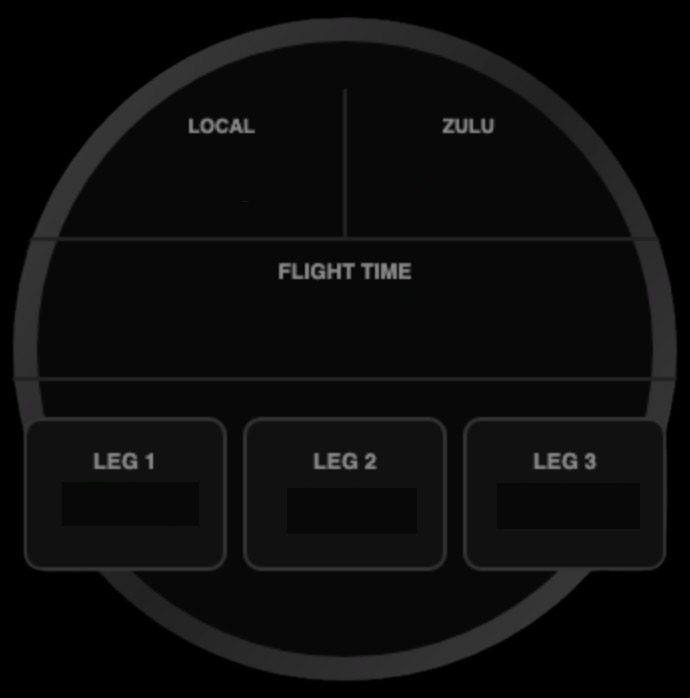
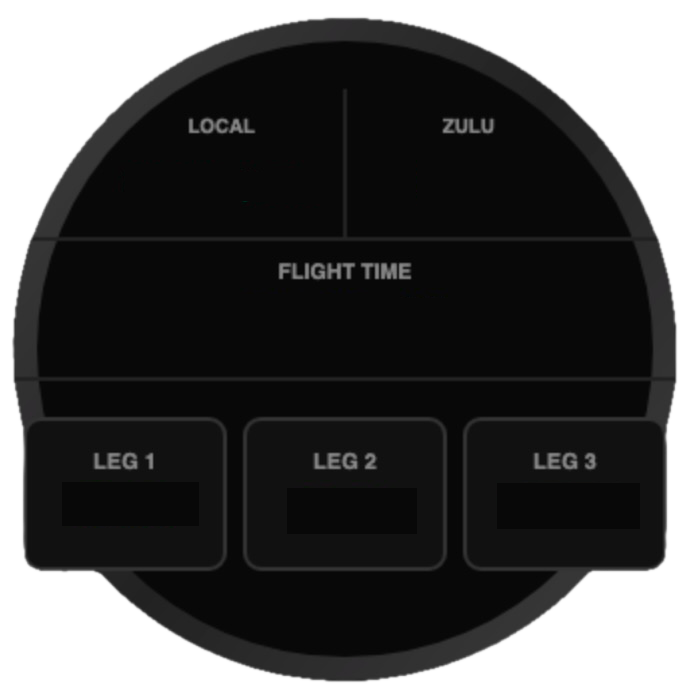
cleanup timer

Changed region(s): [[0.0, 0.0, 1.0, 1.0]]

diff --git a/archive/timerGaugeTypeD.html b/archive/timerGaugeTypeD.html
@@ -1,0 +1,144 @@
+    <!-- Timer Gauge Type D -->
+    <!--
+    <div id="timerContainerDivId"
+	 style="position:relative;
+		width:400px;
+		height:300px;">
+-->
+      <div id="timerContainerDivId"
+	   style="position:relative;
+		  width:100%;
+		  height:auto;
+		  aspect-ratio:1/1;">
+
+    <!-- Background image -->
+    <img id="backPlateTimerID"
+	 src="images/backPlate2.png"
+	 style="
+	  position:absolute;
+	  top:0;
+	  left:0;
+	  width:100%;
+	  height:100%;
+	  z-index: 1;
+	  pointer-events:none;
+	  ">
+    <!-- Background image -->
+    <img id="timeFaceImageId"
+	 src="images/timerFace2.png"
+	 style="
+	  position:absolute;
+	  top:0;
+	  left:0;
+	  width:100%;
+	  height:100%;
+	  z-index: 2;
+	  pointer-events:none;
+	  ">    
+
+    <!-- LOCAL TIME -->
+    <div id="localTime"
+         style="position:absolute;
+		top: 23%;  /* 70px; */
+		left: 19%;/* 58px; */
+		color:#fff;
+		font-size: 16px;
+		z-index: 5;
+		font-weight:bold;">
+      00:00
+    </div>
+
+    <!-- ZULU TIME -->
+    <div id="zuluTime"
+         style="position:absolute;
+		top:23%;  /* 70px; */
+		right:23%;  /* 70px; */
+                color:#fff;
+		font-size:16px;
+		z-index: 5;
+		font-weight:bold;">
+      00:00
+    </div>
+
+    <!-- FLIGHT TIME -->
+    <div id="flightTime"
+         style="position:absolute;
+		top:126px; 
+		left:122px;
+                color:#ff0;
+		font-size:24px;
+		z-index: 5;
+		font-weight:bold;">
+      00:00
+    </div>
+
+    <!-- LEG BUTTONS -->
+    <button id="leg1Btn"
+            style="position:absolute;
+		   bottom:60px;
+		   left:20px;
+                   width:70px;
+		   height:60px;
+		   z-index: 5;
+		   cursor:pointer;
+		   opacity:0;">
+    </button>
+
+    <button id="leg2Btn"
+            style="position:absolute;
+		   bottom:60px;
+		   left:118px;
+                   width:70px;
+		   height:60px;
+		   z-index: 5;
+		   cursor:pointer;
+		   opacity:0;">
+    </button>
+
+    <button id="leg3Btn"
+            style="position:absolute;
+		   bottom:60px;
+		   right:20px;
+                   width:70px;
+		   height:60px;
+		   z-index: 5;
+		   cursor:pointer;
+		   opacity:0;">
+    </button>
+<div id="leg1Display"
+     style="position:absolute;
+	    bottom:70px;
+	    left:30px;
+            color:#f0a;
+	    font-size:20px;
+	    z-index: 6;
+	    pointer-events:none;
+	    font-weight:bold;">
+00:00
+</div>
+
+<div id="leg2Display"
+     style="position:absolute;
+	    bottom:70px;
+	    left:120px;
+            color:#0f0;
+	    font-size:20px;
+	    z-index: 6;
+	    pointer-events:none;
+	    font-weight:bold;">
+00:00
+</div>
+
+<div id="leg3Display"
+     style="position:absolute;
+	    bottom:70px;
+	    right:30px;
+            color:#fa0;
+	    font-size:20px;
+	    z-index: 6;
+	    pointer-events:none;
+	    font-weight:bold;">
+00:00
+</div>
+
+</div>

diff --git a/gauges/timerStyleD.js b/gauges/timerStyleD.js
@@ -38,8 +38,6 @@ let legTimers = {
 
 function toggleLegTimer(leg) {
 
-    cLog("a click", leg);
-    
     const t = legTimers[leg];
 
     if (!t.running) {
@@ -54,8 +52,34 @@ function toggleLegTimer(leg) {
 }
 
 
+let lastTapTime = { 1:0, 2:0, 3:0 };
 
-document.getElementById("leg1Btn").onclick = () => toggleLegTimer(1);
-document.getElementById("leg2Btn").onclick = () => toggleLegTimer(2);
-document.getElementById("leg3Btn").onclick = () => toggleLegTimer(3);
+function handleLegTap(leg) {
+    const now = Date.now();
+    const delta = now - lastTapTime[leg];
 
+    if (delta < 300) {
+        // DOUBLE TAP → reset timer
+        resetLegTimer(leg);
+    } else {
+        // SINGLE TAP → start/stop
+        toggleLegTimer(leg);
+    }
+
+    lastTapTime[leg] = now;
+}
+
+function resetLegTimer(leg) {
+    const t = legTimers[leg];
+    t.running = false;
+    t.start = 0;
+    t.elapsed = 0;
+}
+
+//document.getElementById("leg1Btn").onclick = () => toggleLegTimer(1);
+//document.getElementById("leg2Btn").onclick = () => toggleLegTimer(2);
+//document.getElementById("leg3Btn").onclick = () => toggleLegTimer(3);
+
+document.getElementById("leg1Btn").onclick = () => handleLegTap(1);
+document.getElementById("leg2Btn").onclick = () => handleLegTap(2);
+document.getElementById("leg3Btn").onclick = () => handleLegTap(3);

diff --git a/index.html b/index.html
@@ -154,9 +154,6 @@
       <div id="hdgLubber"></div>
     </div>
 
-    <div id="timerClock">
-      <canvas id="timerCanvas" width="300" height="300"></canvas>
-    </div>
     
     <div id="hdgTypeB">
       <!-- Background image -->
@@ -320,8 +317,8 @@
       <div id="flapsNeedleDivId"
 	   style="
 	  position:absolute;
-	  width:10px;
-	  height:55px;              /* long needle --> future: use percentage*/
+	  width:5px;
+	  height:40px;              /* long needle --> future: use percentage*/
 	  background:white;
 	  left:50%;                 /* center horizontally */
 	  top:50%;                  /* center vertically */
@@ -580,7 +577,6 @@
 </div>
     </div>
 
-
     <!-- Timer Gauge Type D -->
     <!--
     <div id="timerContainerDivId"
@@ -589,7 +585,10 @@
 		height:300px;">
 -->
       <div id="timerContainerDivId"
-     style="position:relative; width:100%; height:auto; aspect-ratio:1/1;">
+	   style="position:relative;
+		  width:100%;
+		  height:auto;
+		  aspect-ratio:1/1;">
 
     <!-- Background image -->
     <img id="backPlateTimerID"
@@ -614,15 +613,15 @@
 	  height:100%;
 	  z-index: 2;
 	  pointer-events:none;
-	  ">
-        
+	  ">    
+
     <!-- LOCAL TIME -->
     <div id="localTime"
          style="position:absolute;
 		top: 23%;  /* 70px; */
-		left: 19%;  /* 58px; */
-        color:#fff;
-		font-size: 5.3%; /* 16px; */
+		left: 19%;/* 58px; */
+		color:#fff;
+		font-size: 16px;
 		z-index: 5;
 		font-weight:bold;">
       00:00
@@ -631,8 +630,8 @@
     <!-- ZULU TIME -->
     <div id="zuluTime"
          style="position:absolute;
-		top:70px;
-		right:70px;
+		top:23%;  /* 70px; */
+		right:23%;  /* 70px; */
                 color:#fff;
 		font-size:16px;
 		z-index: 5;
@@ -732,7 +731,6 @@
     <script src="simData.js"></script>
     
     <script src="gauges/attitude.js"></script>
-    <script src="gauges/timer.js"></script>
     <script src="gauges/turnRate.js"></script>
     <script src="gauges/headingTypeB.js"></script>
     <script src="gauges/vsi.js"></script>

diff --git a/style.css b/style.css
@@ -107,8 +107,8 @@ canvas {
 #hdgTypeB canvas,
 #attitudeDivId canvas,
 #alt canvas,
-#hdg canvas,
-#timerClock canvas {
+#hdg canvas
+{
     width: 100%;
     height: 100%;
 }

diff --git a/panelDefs.js b/panelDefs.js
@@ -44,6 +44,7 @@ function setupPanelC172() {
 
 	rpmGaugeDiv: { x: 550,  y: 500, size: 150 },
 
+
     };
         positionGaugesAndSetTitle(gaugePositions, "C172");
 
@@ -173,7 +174,7 @@ function setGaugeWH(id, x, y, width = 300, height = 300) {
 function hideAllGauges() {
     // make sure to hide the entire container - use the divId
     const gauges =
-	  ["alt", "hdg", "timerCanvas", "hdgTypeB",
+	  ["alt", "hdg", "hdgTypeB",
 	   "attitudeDivId",
 	   "turnRateDivId", "vsiCanvasDivId","switchesCanvasId",
 	   "g1000CanvasDivId",